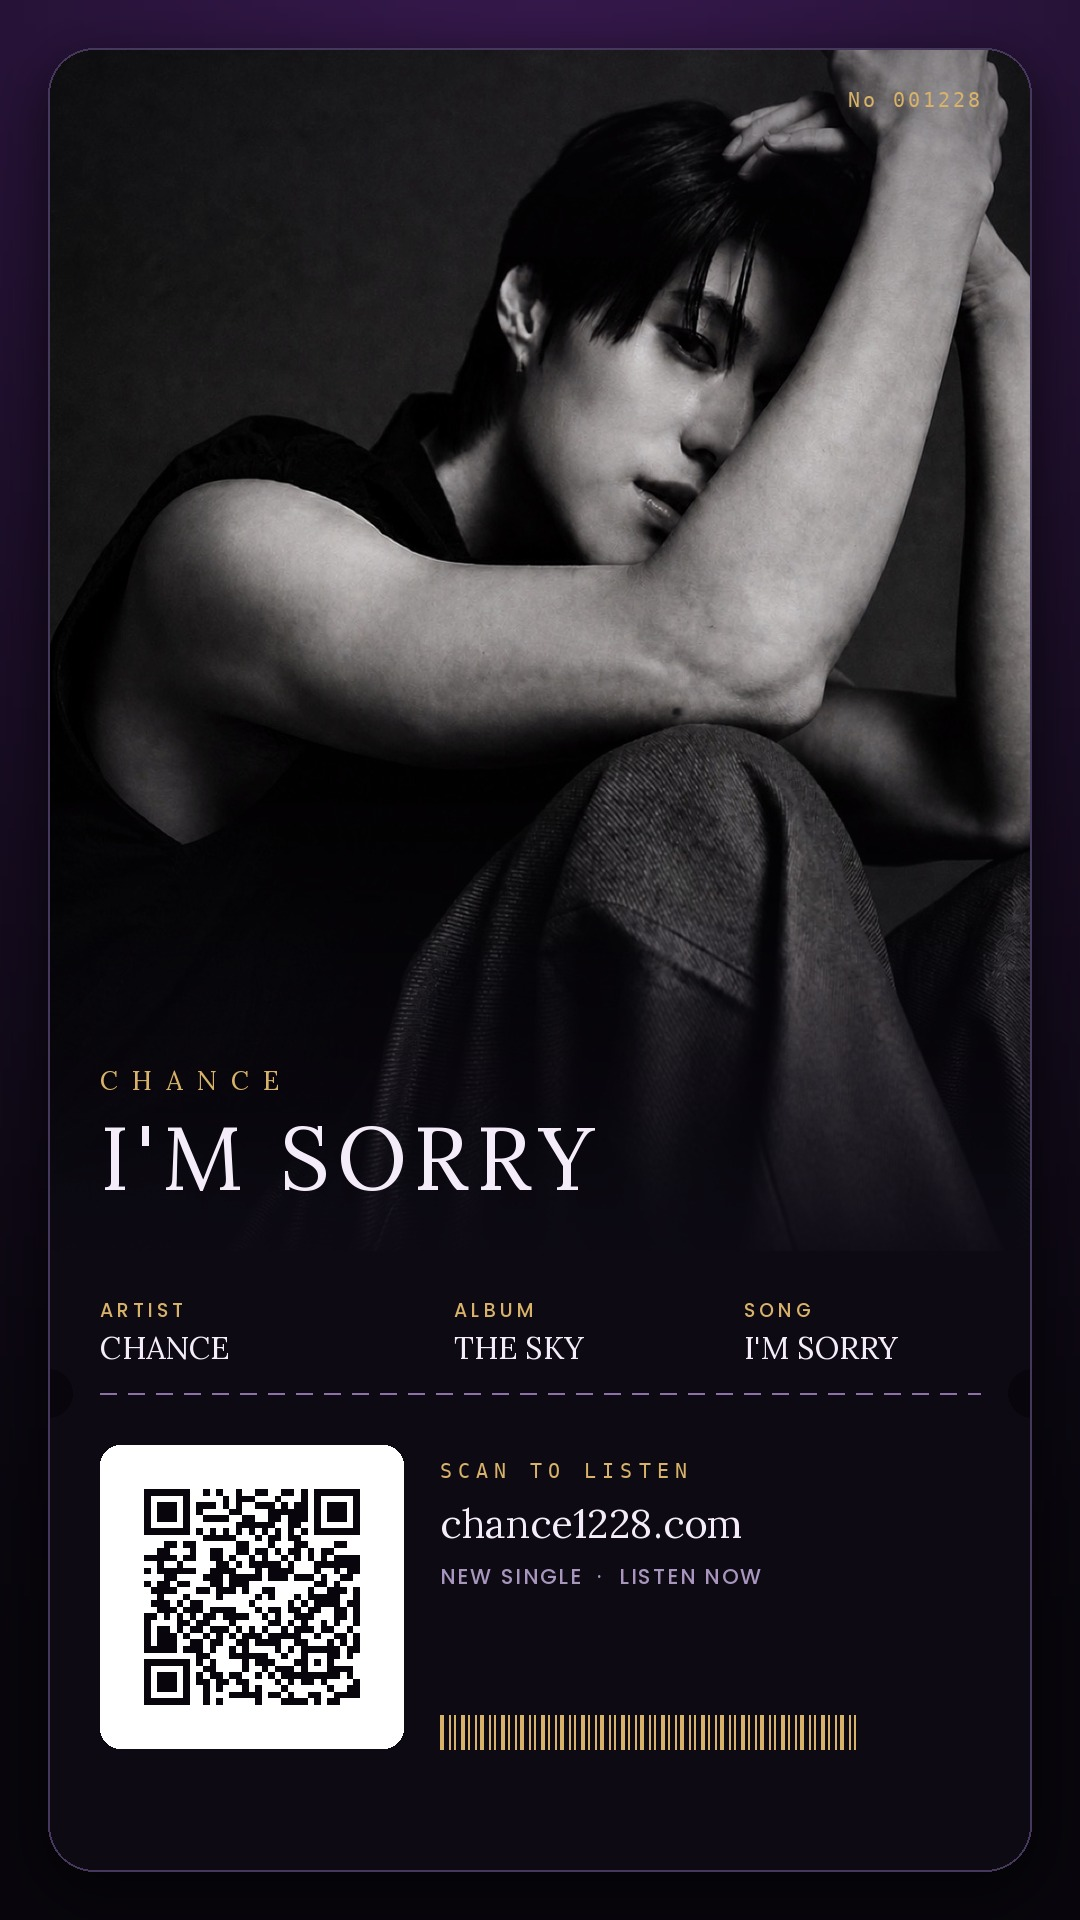
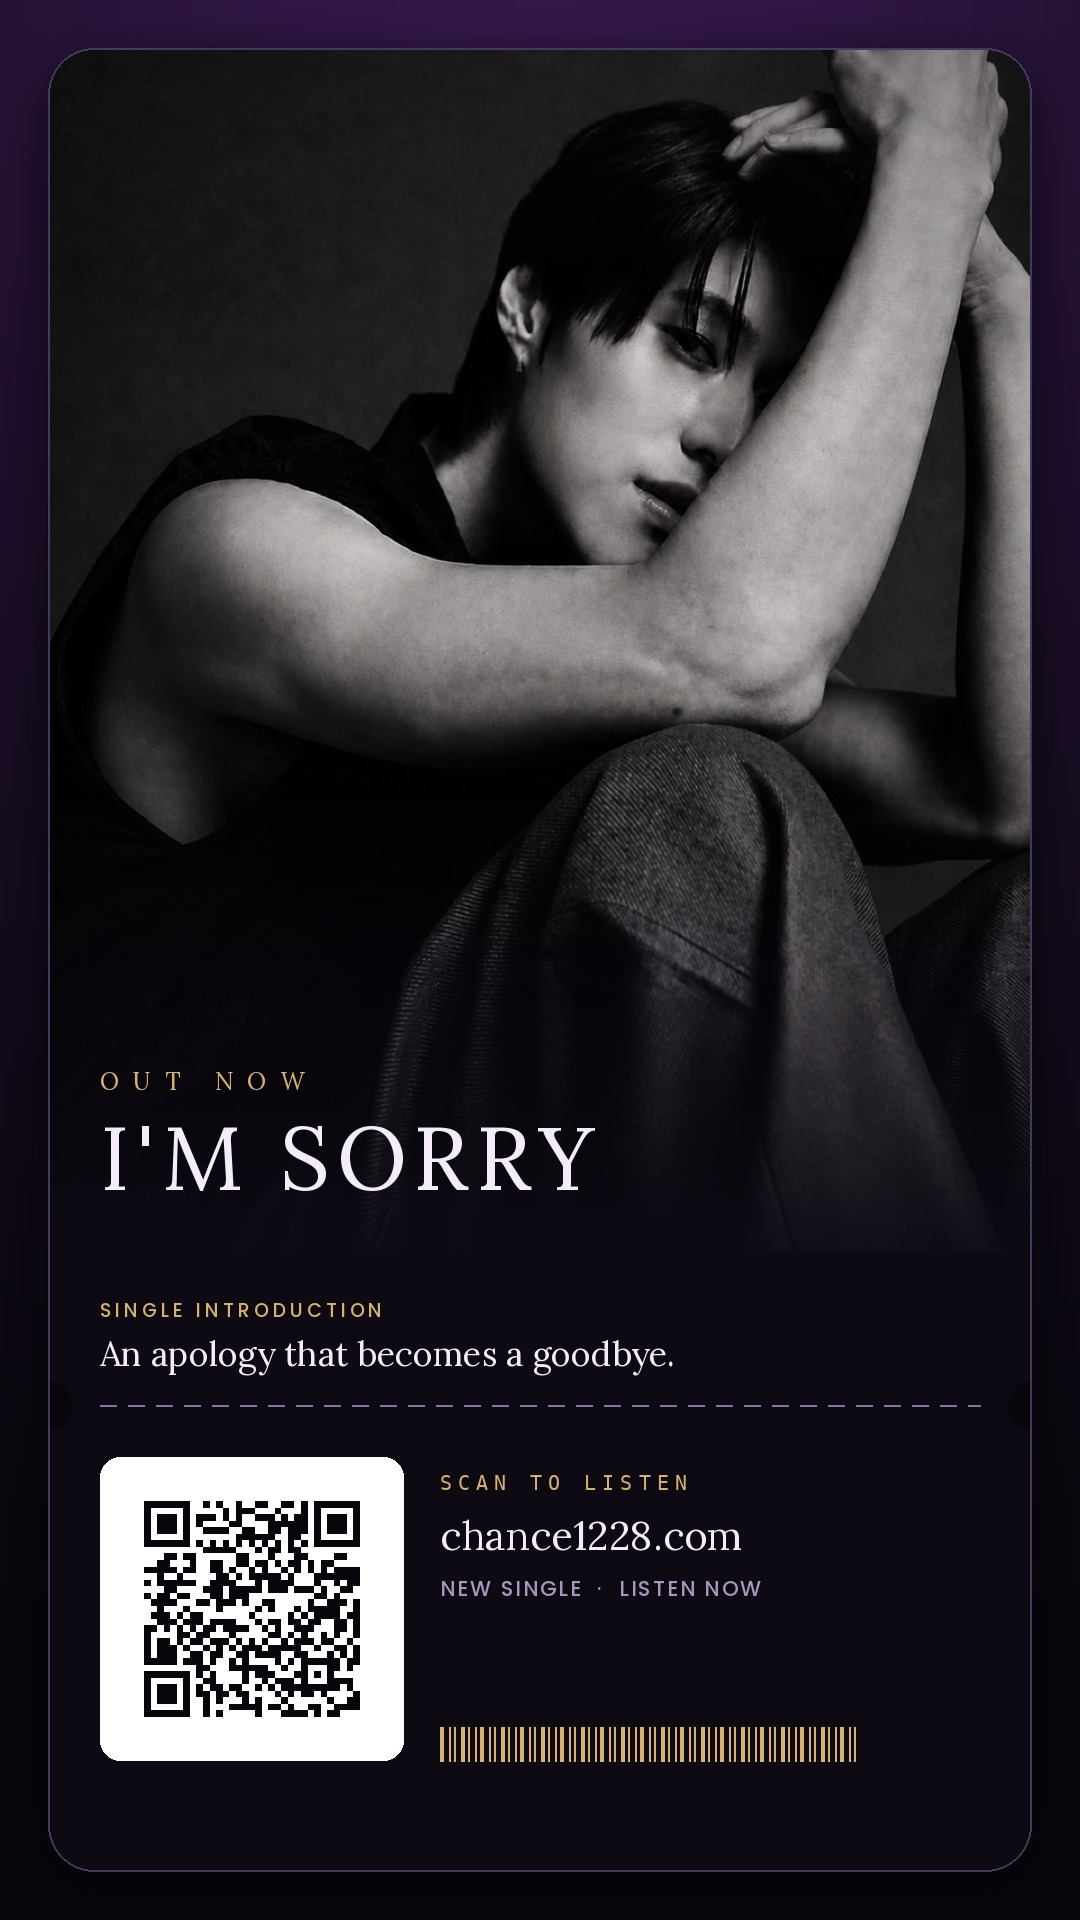
分享圖對齊定稿頁面
- 拿掉 No 001228 序號（頁面早已移除，圖還留著）
- 標題結構改成 OUT NOW（金）/ I'M SORRY，與頁面一致
- 橫式：FROM THE ALBUM THE SKY 改成單曲文案一句
- 直式：ARTIST/ALBUM/SONG 三欄改成 SINGLE INTRODUCTION
- og:image 版本推到 ?v=3，強制 LINE / Threads 重抓
- 兩張 QR 重新驗證可掃

diff --git a/im-sorry/index.html b/im-sorry/index.html
@@ -10,7 +10,7 @@
 <meta property="og:type" content="website">
 <meta property="og:title" content="CHANCE — I'M SORRY">
 <meta property="og:description" content="An apology that becomes a goodbye. The new single — out now.">
-<meta property="og:image" content="https://chance1228.com/assets/share/im-sorry-share-card-og.jpg?v=2">
+<meta property="og:image" content="https://chance1228.com/assets/share/im-sorry-share-card-og.jpg?v=3">
 <meta property="og:image:width" content="1200">
 <meta property="og:image:height" content="630">
 <meta property="og:url" content="https://chance1228.com/im-sorry/">
@@ -18,7 +18,7 @@
 <meta name="twitter:card" content="summary_large_image">
 <meta name="twitter:title" content="CHANCE — I'M SORRY">
 <meta name="twitter:description" content="An apology that becomes a goodbye. The new single — out now.">
-<meta name="twitter:image" content="https://chance1228.com/assets/share/im-sorry-share-card-og.jpg?v=2">
+<meta name="twitter:image" content="https://chance1228.com/assets/share/im-sorry-share-card-og.jpg?v=3">
 <link rel="canonical" href="https://chance1228.com/im-sorry/">
 <!-- After the www DNS is configured, replace every chance1228.com URL on this page with www.chance1228.com. -->
 

diff --git a/tools/make-share-card.py b/tools/make-share-card.py
@@ -22,11 +22,12 @@ from PIL import Image, ImageDraw, ImageFilter, ImageFont
 ARTIST      = "CHANCE"
 ALBUM       = "THE SKY"
 SONG        = "I'M SORRY"
-SERIAL      = "No 001228"
+EYEBROW     = "OUT NOW"          # gold line above the title, matches the live page
 URL_LABEL   = "chance1228.com"
 QR_TARGET   = "https://chance1228.com/im-sorry/"   # where scanning takes you
 SCAN_LABEL  = "SCAN TO LISTEN"
 TAGLINE     = "NEW SINGLE  ·  LISTEN NOW"
+BLURB       = "An apology that becomes a goodbye."
 
 ROOT   = os.path.dirname(os.path.dirname(os.path.abspath(__file__)))
 COVER  = os.path.join(ROOT, "assets/images/sky/cover.jpg")
@@ -193,30 +194,33 @@ def render(W, H, name, hero_ratio=0.60, pad_ratio=0.045):
     hd = ImageDraw.Draw(card)
     m = int(52 * s)
 
-    # serial, top right
-    f_mono_sm = font(F_MONO, int(20 * s))
-    tracked(hd, (card_w - m, int(40 * s)), SERIAL, f_mono_sm, GOLD,
-            tracking=int(3 * s), anchor_x="right")
-
-    # artist + song title, bottom left of hero
-    f_artist = font(F_SERIF, int(26 * s))
-    f_title  = font(F_SERIF, int(88 * s))
-    title_y  = hero_h - int(150 * s)
-    tracked(hd, (m, title_y - int(38 * s)), ARTIST, f_artist, GOLD, tracking=int(14 * s))
+    # eyebrow + song title, bottom left of hero (no serial — matches the page)
+    f_eyebrow = font(F_SERIF, int(24 * s))
+    f_title   = font(F_SERIF, int(88 * s))
+    title_y   = hero_h - int(150 * s)
+    tracked(hd, (m, title_y - int(36 * s)), EYEBROW, f_eyebrow, GOLD, tracking=int(14 * s))
     tracked(hd, (m, title_y), SONG, f_title, INK, tracking=int(7 * s))
 
     # ---------------- meta row ----------------
     y = hero_h + int(46 * s)
     f_k = font(F_SANS, int(19 * s))
-    f_v = font(F_SERIF, int(31 * s))
-    cols = [("ARTIST", ARTIST), ("ALBUM", ALBUM), ("SONG", SONG)]
-    col_x = [m, m + int(card_w * 0.36), m + int(card_w * 0.655)]
-    for (k, v), cx in zip(cols, col_x):
-        tracked(cd, (cx, y), k, f_k, (217, 178, 106), tracking=int(4 * s))
-        cd.text((cx, y + int(30 * s)), v, font=f_v, fill=INK)
+    f_v = font(F_SERIF, int(34 * s))
+    tracked(cd, (m, y), "SINGLE INTRODUCTION", f_k, (217, 178, 106), tracking=int(4 * s))
+    # wrap the blurb to the card width
+    words, line, lines = BLURB.split(), "", []
+    maxw = card_w - m * 2
+    for w_ in words:
+        t = (line + " " + w_).strip()
+        if cd.textlength(t, font=f_v) <= maxw:
+            line = t
+        else:
+            lines.append(line); line = w_
+    if line: lines.append(line)
+    for i, ln in enumerate(lines):
+        cd.text((m, y + int(34 * s) + i * int(44 * s)), ln, font=f_v, fill=INK)
 
     # ---------------- perforation ----------------
-    perf_y = y + int(96 * s)
+    perf_y = y + int(34 * s) + len(lines) * int(44 * s) + int(30 * s)
     dash, gap = int(16 * s), int(12 * s)
     dx = m
     while dx < card_w - m:
@@ -300,15 +304,14 @@ def render_landscape(W, H, name, pad_ratio=0.030):
     card.paste(art, (0, 0))
 
     m = int(46 * s)
-    f_artist = font(F_SERIF, int(22 * s))
-    f_song   = font(F_SERIF, int(68 * s))
-    f_album  = font(F_SANS,  int(20 * s))
+    f_eyebrow = font(F_SERIF, int(22 * s))
+    f_song    = font(F_SERIF, int(68 * s))
+    f_blurb   = font(F_SERIF, int(23 * s))
 
     ay = card_h - int(178 * s)
-    tracked(cd, (m, ay), ARTIST, f_artist, GOLD, tracking=int(12 * s))
+    tracked(cd, (m, ay), EYEBROW, f_eyebrow, GOLD, tracking=int(12 * s))
     tracked(cd, (m, ay + int(30 * s)), SONG, f_song, INK, tracking=int(5 * s))
-    tracked(cd, (m, ay + int(112 * s)), "FROM THE ALBUM " + ALBUM, f_album,
-            (185, 165, 205), tracking=int(4 * s))
+    cd.text((m, ay + int(114 * s)), BLURB, font=f_blurb, fill=(196, 180, 214))
 
     # ---------------- vertical perforation ----------------
     px_ = art_w + int(6 * s)
@@ -324,9 +327,6 @@ def render_landscape(W, H, name, pad_ratio=0.030):
 
     # ---------------- right: stub ----------------
     sx = px_ + int(54 * s)
-    f_mono_sm = font(F_MONO, int(17 * s))
-    tracked(cd, (card_w - m, int(38 * s)), SERIAL, f_mono_sm, GOLD,
-            tracking=int(3 * s), anchor_x="right")
 
     # Stub contents are stacked and centred inside the right-hand panel so
     # nothing can run past the card edge regardless of string length.
